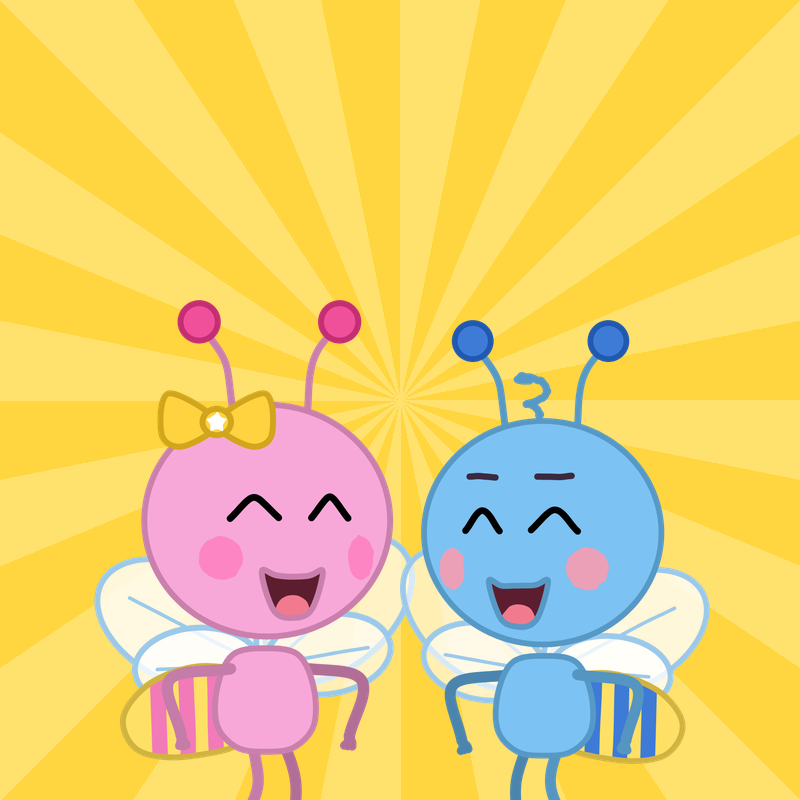
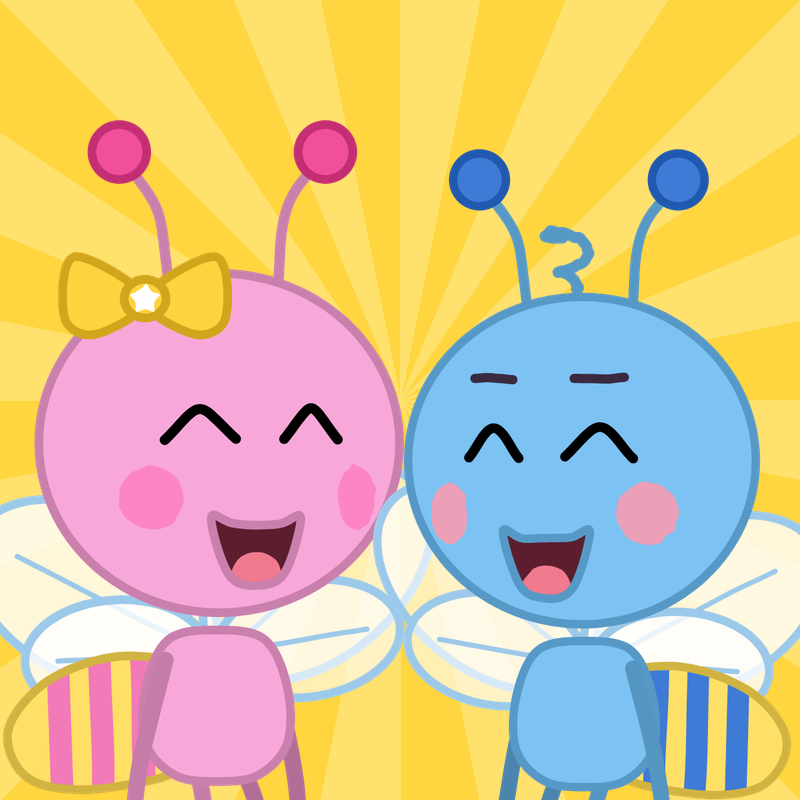
Foto de perfil em close (rostos grandes, legíveis no ícone pequeno); marca d'água acompanha

diff --git a/toonstudio/composition/canal.py b/toonstudio/composition/canal.py
@@ -112,11 +112,12 @@ def perfil() -> Path:
         a0 = k * math.pi / 8
         d.polygon([(S / 2, S / 2), (S / 2 + 900 * math.cos(a0), S / 2 + 900 * math.sin(a0)),
                    (S / 2 + 900 * math.cos(a0 + math.pi / 16), S / 2 + 900 * math.sin(a0 + math.pi / 16))], fill=(255, 225, 110, 255))
-    la = _char("laurinha", {**expression("joy"), "turn": 0.2, "mouth": "D"}, 560)
-    lu = _char("luisinho", {**expression("joy"), "turn": -0.2, "mouth": "D"}, 540)
-    # dois rostos inteiros dentro do círculo, lado a lado
-    _paste(img, la, 255, 860)
-    _paste(img, lu, 555, 860)
+    baixo = {"hand_n_x": -30, "hand_n_y": 150, "hand_f_x": 30, "hand_f_y": 150}     # braços para baixo, fora do recorte
+    la = _char("laurinha", {**expression("joy"), "turn": 0.2, "mouth": "D", **baixo}, 820)
+    lu = _char("luisinho", {**expression("joy"), "turn": -0.2, "mouth": "D", **baixo}, 791)
+    # close: os dois rostos grandes (leem no ícone pequeno), com antenas e laço inteiros dentro do círculo
+    _paste(img, la, 200, 940)
+    _paste(img, lu, 600, 940)
     mask = Image.new("L", (S, S), 0)
     ImageDraw.Draw(mask).ellipse([0, 0, S, S], fill=255)
     p = OUT / "perfil_800x800.png"
